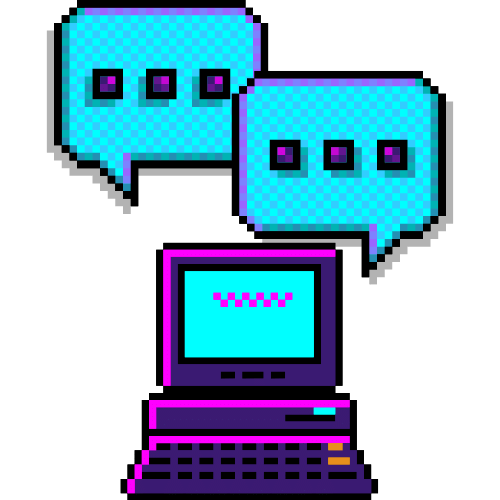
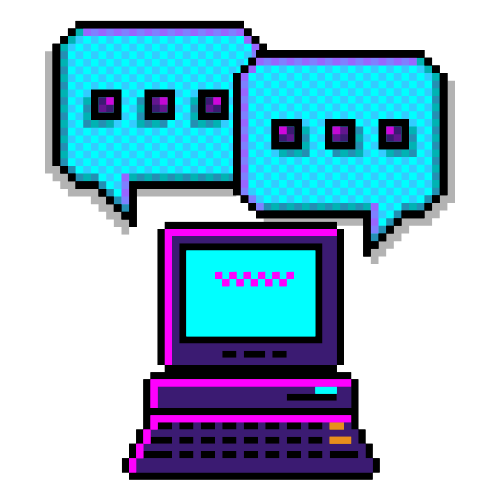
Contact page styled

diff --git a/portfolio/contact.html b/portfolio/contact.html
@@ -5,13 +5,14 @@
     <meta http-equiv="X-UA-Compatible" content="IE=edge">
     <meta name="viewport" content="width=device-width, initial-scale=1.0">
     <link rel="icon" href="images/Logo 2.png">
-    <title>Bryan Nuñez | Web Designer and Developer | Home</title>
+    <link rel="stylesheet" href="styles/styles.css">
+    <title>Bryan Nuñez | Web Designer and Developer | Contact</title>
 </head>
 <body>
-    <div id="content">
+    <div class="nav-blur">
         <header>
             <a href="index.html" id="logo_link">
-                <img src="images/Logo 2.png" alt="Bryan Nuñez Logo" width="50px">
+                <img src="images/Logo 2.png" alt="Bryan Nuñez Logo" class="logo">
             </a>
             <nav>
                 <a href="index.html">Home</a>
@@ -19,58 +20,56 @@
                 <a href="contact.html">Contact</a>
             </nav>
         </header>
+    </div>
+    <div id="content-contact">
+        <h1 class="contact-title">Contact</h1>
+        <h3 class="contact-subtitle">Contact me if you want us to work together.</h3>
         <main class="contact-grid">
-            <section id="contact-title">
-                <h1 class="main-title">Contact</h1>
-                <h3>Please leave a message if you want us to work together.</h3>
-            </section>
-            <form action="/my-handling-form-page" method="post">
-                <ul>
-                    <li>
-                        <input type="text" id="name" name="user_name" value="Name">
-                    </li>
-                    <li>
-                        <input type="email" id="email" name="user_email" value="Email">
-                    </li>
-                    <li>
-                        <textarea name="user_message" id="msg">Type your message</textarea>
-                    </li>
-                    <li>
-                        <button type="submit">Send</button>
-                    </li>
-                </ul>
-            </form>
+            <div id="form-container">
+                <form action="/my-handling-form-page" method="post">
+                    <input type="text" id="name" name="user_name" placeholder="Name...">
+
+                    <input type="email" id="email" name="user_email" placeholder="Email...">
+                        
+                    <textarea name="user_message" id="msg" placeholder="Message..."></textarea>
+
+                    <button type="submit">Send</button>
+                </form>
+            </div>
             <div id="chat-image">
-                <img src="images/chat.png" alt="Chat on a computer">
+                <img src="images/chat.png" alt="Chat on a computer" class="chat-img">
             </div>
             <div id="email-image">
-                <img src="images/email-logo.png" alt="Email icon">
+                <img src="images/email-logo.png" alt="Email icon" class="basic-img">
             </div>
             <div id="github-image">
-                <img src="images/github-pixel.png" alt="Github icon">
+                <img src="images/github-pixel.png" alt="Github icon" class="basic-img">
             </div>
             <div id="linkedin-image">
-                <img src="images/linkedin.png" alt="LinkedIn icon">
+                <img src="images/linkedin.png" alt="LinkedIn icon" class="basic-img">
+            </div>
+            <div id="twitter-image">
+                <img src="images/twitter.png" alt="LinkedIn icon" class="basic-img">
             </div>
         </main>
-        <footer>
-            <p>Bryan Nuñez &copy; 2022</p>
-            <p><a href="index.html">Home</a></p>
-            <p><a href="portfolio.html">Portfolio</a></p>
-            <p><a href="contact.html">Contact</a></p>
-            <p><a href="site-plan.html">Site Plan</a></p>
-            <div class="social">
-                <a href="https://facebook.com" target="_blank">
-                    <img src="images/facebook.png" alt="facebook icon">
-                </a>
-                <a href="https://twitter.com" target="_blank">
-                    <img src="images/twitter.png" alt="twitter icon">
-                </a>
-                <a href="https://instagram.com" target="_blank">
-                    <img src="images/instagram.png" alt="instagram icon">
-                </a>
-            </div>
-        </footer>
     </div>
+    <footer>
+        <p>Bryan Nuñez &copy; 2022</p>
+        <p><a href="index.html">Home</a></p>
+        <p><a href="portfolio.html">Portfolio</a></p>
+        <p><a href="contact.html">Contact</a></p>
+        <p><a href="site-plan.html">Site Plan</a></p>
+        <div class="social">
+            <a href="https://facebook.com" target="_blank">
+                <img src="images/facebook.png" alt="facebook icon">
+            </a>
+            <a href="https://twitter.com" target="_blank">
+                <img src="images/twitter.png" alt="twitter icon">
+            </a>
+            <a href="https://instagram.com" target="_blank">
+                <img src="images/instagram.png" alt="instagram icon">
+            </a>
+        </div>
+    </footer>
 </body>
 </html>

diff --git a/portfolio/styles/styles.css b/portfolio/styles/styles.css
@@ -138,6 +138,7 @@ nav a:hover {
 /* Content */
 
 #content {
+    /* padding-top: 10px; */
     z-index: -1;
 }
 
@@ -372,4 +373,134 @@ div a img {
 
 .text p {
     color: var(--light-blue);
+}
+
+/* CONTACT */
+#content-contact {
+    padding-top: 10px;
+    padding-left: 50px;
+    padding-right: 50px;
+    z-index: -1;
+}
+
+.contact-title {
+    margin-top: 90px;
+    margin-bottom: 30px;
+}
+
+.contact-subtitle {
+    color: var(--dark-blue);
+}
+
+.contact-grid {
+    display: grid;
+    grid-template-columns: repeat(6, 1fr);
+    grid-gap: 10px;
+}
+
+/* Form */
+#form-container {
+    grid-column: 1/4;
+    grid-row: 1/3;
+    border-radius: 5px;
+}
+
+input[type=text], input[type=email] {
+    width: 100%;
+    padding: 12px;
+    border: 1px solid #ccc;
+    border-radius: 4px;
+    box-sizing: border-box;
+    margin-top: 6px;
+    margin-bottom: 16px;
+    resize: vertical;
+  }
+
+  textarea {
+    width: 100%;
+    height: 200px;
+    padding: 12px;
+    border: 1px solid #ccc;
+    border-radius: 4px;
+    box-sizing: border-box;
+    margin-top: 6px;
+    margin-bottom: 16px;
+    resize: vertical;
+  }
+  
+  button[type=submit] {
+    background-color: var(--pink);
+    color: white;
+    padding: 12px 20px;
+    border: none;
+    border-radius: 4px;
+    cursor: pointer;
+  }
+  
+  button[type=submit]:hover {
+    background-color: #FE00FE;
+    opacity: 0.6;
+  }
+
+/* Images */
+.chat-img {
+    width: 100%;
+}
+
+.basic-img {
+    width: 100%;
+    transition: transform .4s;
+    cursor: pointer;
+}
+
+.basic-img:hover {
+    opacity: .6;
+    transform: scale(1.08);
+}
+
+#chat-image {
+    display: flex;
+    justify-self: center;
+    grid-column: 4/7;
+    grid-row: 1/3;
+    width: 400px;
+/*     margin-top: 40px;
+    margin-bottom: 80px; */
+    /* padding: 8%; */
+}
+
+#chat-image img {
+    margin: auto;
+}
+
+#email-image {
+    grid-column: 2/3;
+    grid-row: 3/7;
+    margin-top: 40px;
+    margin-bottom: 80px;
+    padding: 15%;
+}
+
+#github-image {
+    grid-column: 3/4;
+    grid-row: 3/7;
+    margin-top: 40px;
+    margin-bottom: 80px;
+    padding: 15%;
+}
+
+#linkedin-image {
+    grid-column: 4/5;
+    grid-row: 3/7;
+    margin-top: 40px;
+    margin-bottom: 80px;
+    padding: 15%;
+}
+
+#twitter-image {
+    grid-column: 5/6;
+    grid-row: 3/7;
+    margin-top: 40px;
+    margin-bottom: 80px;
+    padding: 15%;
 }

diff --git a/portfolio/portfolio.html b/portfolio/portfolio.html
@@ -6,7 +6,7 @@
     <meta name="viewport" content="width=device-width, initial-scale=1.0">
     <link rel="icon" href="images/Logo 2.png">
     <link rel="stylesheet" href="styles/styles.css">
-    <title>Bryan Nuñez | Web Designer and Developer | Home</title>
+    <title>Bryan Nuñez | Web Designer and Developer | Portfolio</title>
 </head>
 <body>
     <div class="nav-blur">
